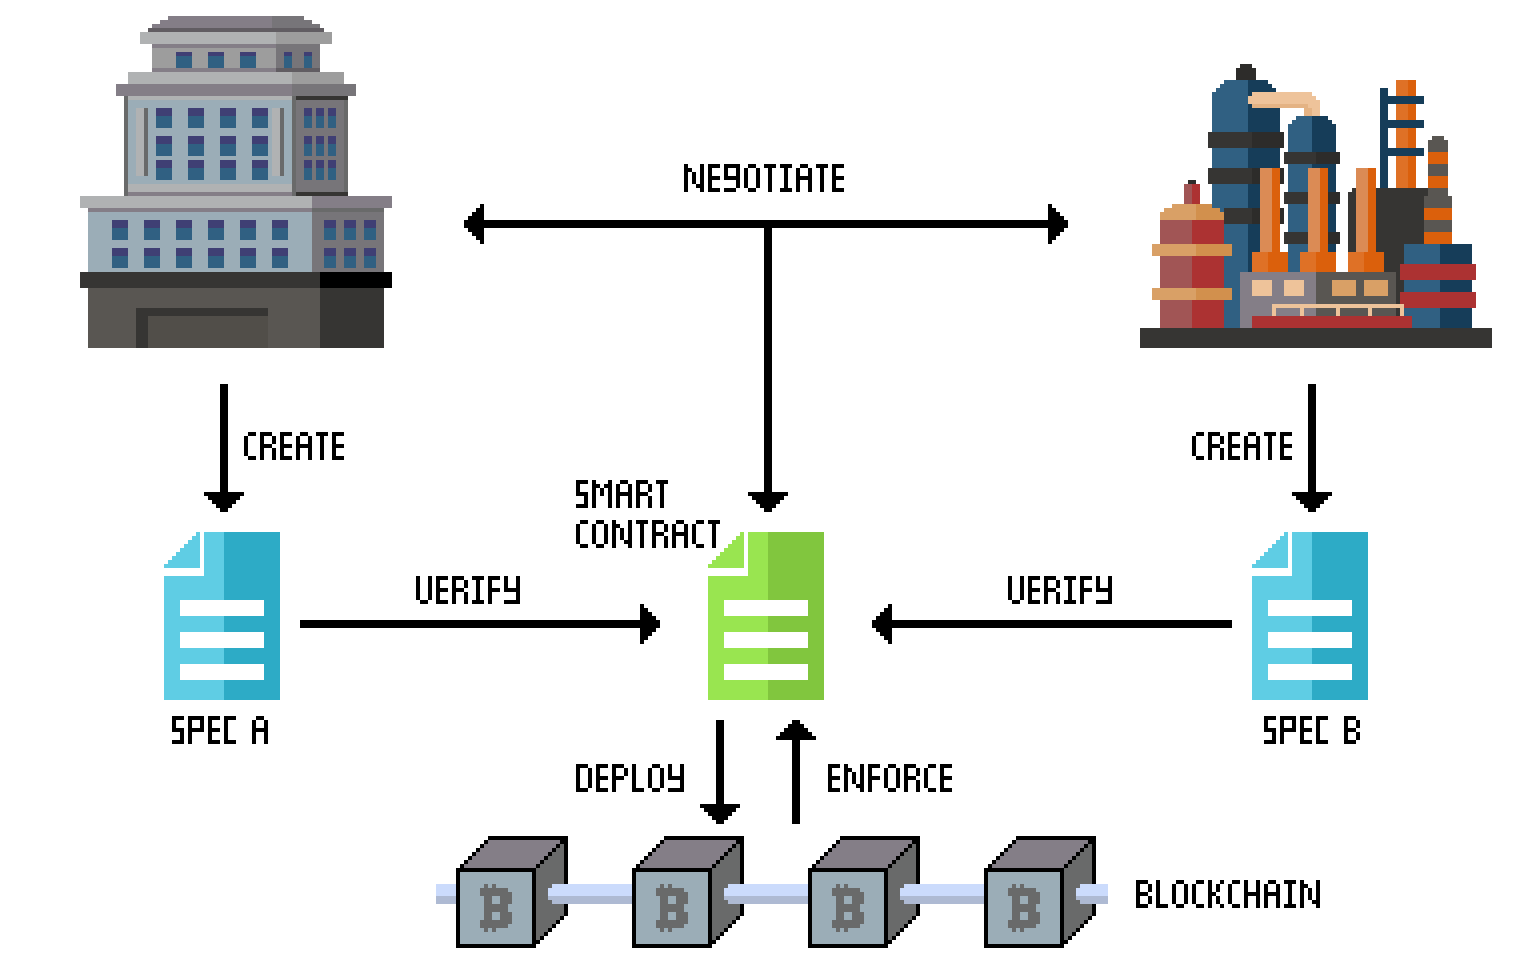
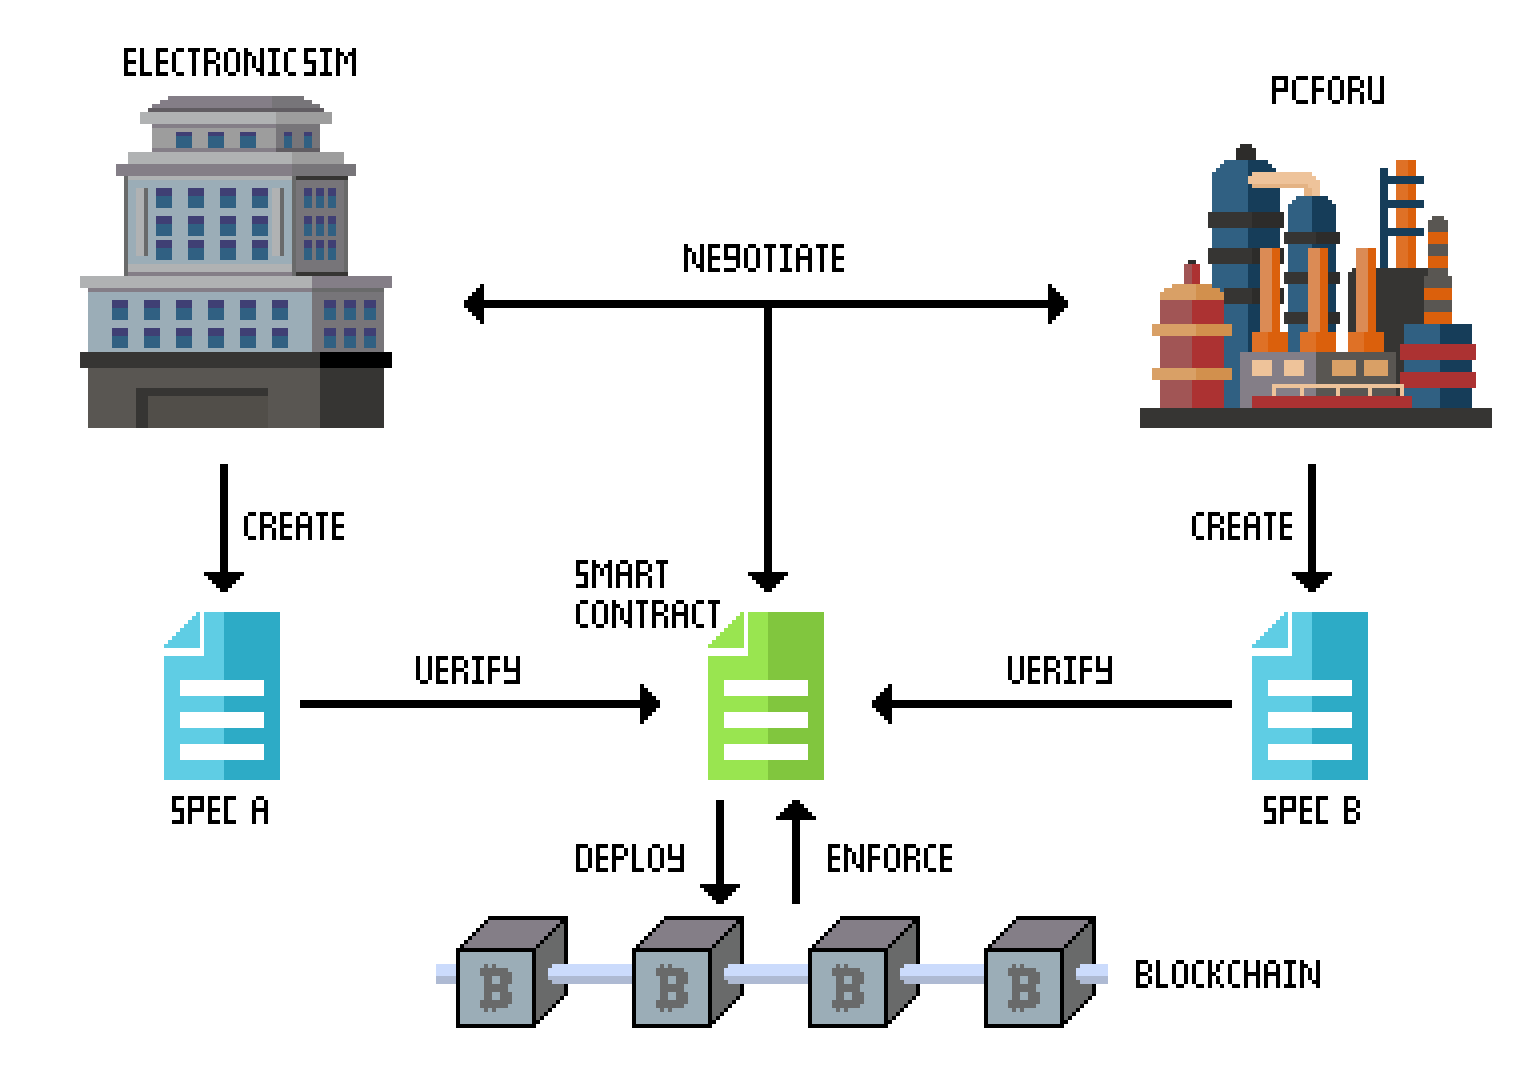
without contact form

diff --git a/index.html b/index.html
@@ -48,7 +48,7 @@
     <header class="index-header text-white">
         <div>
             <div class="container text-center text-white bg-dark-semitransparent" style="border-radius: 6px">
-                <h1>Autonomous agents and smart contract negotiation</h1>
+                <h1>Smart Contracts In The Age Of Autonomous Agents</h1>
                 <p class="lead">A PhD research project by Dominik Harz</p>
             </div>
         </div>
@@ -66,6 +66,14 @@
                         However, now contracts are becoming bigger and bigger and much more complicated, requiring
                         third-party help to ensure the contracts are not broken.
                         The resolution to this problem is smart contracts.</p>
+                      </div>
+                  </div>
+              </div>
+  </section>
+  <section id="field2" class="bg-light">
+        <div class="container">
+              <div class="row">
+                <div class="col-lg-8 mx-auto">
                     <h2>What?</h2>
                     <p class="lead">In simple terms smart contracts are small computer programs stored inside of a
                         blockchain.
@@ -78,6 +86,14 @@
                         Being distributive means that the output of the smart contract has to be validated by everyone
                         on the network so a single person cannot force a contract to end, so it becomes almost
                         impossible to tamper with.</p>
+                      </div>
+                    </div>
+            </div>
+</section>
+<section id="field3">
+        <div class="container">
+            <div class="row">
+              <div class="col-lg-8 mx-auto">
                     <h2>One of many uses</h2>
                     <p class="lead">Autonomation is a goal shared by many companies and organisations, many have
                         achieved autonomation along the production line using robots to manufacture goods and carry out
@@ -88,25 +104,35 @@
                         For this to become a reality companies need to be able to autonomously communicate between each
                         other, create and sign a smart contract.</p>
                     <div><img src="pics/diagram.png" alt="A diagram" width="786" height="480"></div>
-                    <p class="lead">This diagram shows negotiation between two firms resulting in a smart contract,
-                        that contains the term of agreement.
-                        For example, Firm B will give Firm A X amount of raw material and Firm A will pay Y amount.
-                        This is the implementation of the terms encoded in the smart contract.
-                        Before the smart contract is made Firm A and Firm B both create specifications containing
-                        logical statements that are used to test against the terms of the contract.
-                        For example, Firm A’s specification may contain a logic statement “Firm B will supply 10 tons
-                        of Steel”.
+                    <p class="lead">This diagram shows negotiation between two firms resulting in a smart contract, that contains the term of agreement.
+                        For example, consider a software development firm that creates simulation software for electronic equipment design let’s call it “ElectronicSim” and an electronics manufacturing firm such as Apple, Samsung or Dell but let’s call it “PCforU”.
+                        ElectronicSim may agree to license 50 copies of their simulation software for 1-year to PCforU at a price of $50,000 per copy.
+                        This is the implementation of the terms of agreement encoded in the smart contract.
+                        Before the smart contract is made both firms create specifications containing logical statements that are used to test against the terms of the contract.
+                        For example, PCforU’s specification may contain a logic statement “ElectronicSim will license 50 copies of simulation software for 1-year”.
+                        Likewise, ElectronicSim's specification might contain the statement "PCforU will pay $2,500,000 in total for the year".
                         This statement is then tested against the contract returning true or false.
                         This ensures that both parties get what they want from the contract.
-                        Once the final smart contract is verified by both parties it can be deployed on the blockchain
-                        and be used</p>
+                        Once the final smart contract is verified by both parties it can be deployed on the blockchain and be used.</p>
                     <ul>
                     </ul>
                 </div>
             </div>
         </div>
     </section>
-
+    <section id="field2" class="bg-light">
+          <div class="container">
+                <div class="row">
+                  <div class="col-lg-8 mx-auto">
+                      <h2>Get in Touch!</h2>
+                      <p>If you are interested by the research project and want to collaborate or have any questions you can find Dominik’s contact information on the About page.
+                      </p>
+                      <p>Or contact him now below!
+                      </p>
+                  </div>
+                </div>
+          </div>
+    </section>
     <!-- Footer -->
     <footer class="py-5 bg-dark">
         <div class="container">
